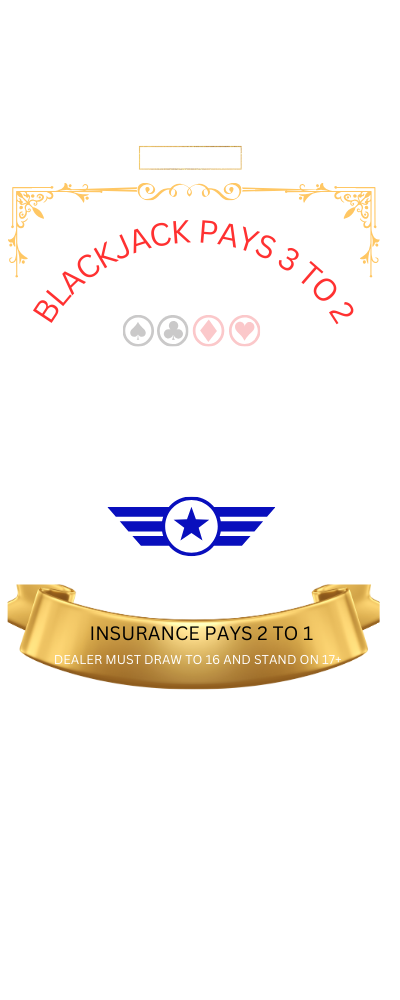
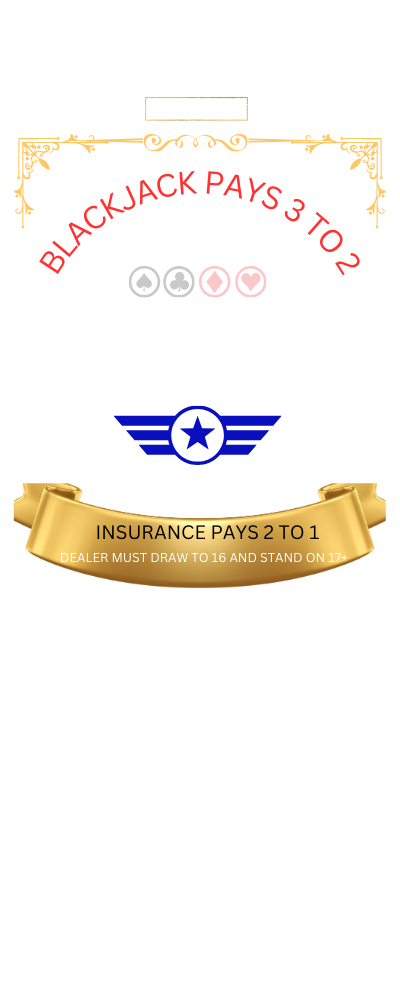
mobs layout done

Changed region(s): [[0.0, 0.465, 0.99, 0.713], [0.03, 0.093, 0.96, 0.341], [0.3, 0.403, 0.69, 0.465]]

diff --git a/style.css b/style.css
@@ -111,6 +111,7 @@ button.stay {
         background-image: url("./images/blackjack-board-mobs.png");
         background-repeat: no-repeat;
         background-size: 100%;
+
     
     }
 
@@ -118,25 +119,59 @@ button.stay {
         display: flex;
         justify-content: start;
         gap: 10px;
-        padding-left: 10rem;
+        padding-left: 2rem;
         padding-top: 8rem;
        
        
     }
 
     .computer-cards img {
-        width: 10rem; 
+        width: 3rem; 
         height: auto;
-        padding-top: 0;
+        padding-top: 14rem;
        
     }
     
 
     .player-cards {
-    
         display: flex;
+        justify-content: start;
         gap: 10px;
+        padding-left: 2rem;
+  padding-top: 14rem;
    
+}
+
+.player-cards img {
+    width: 3rem;
+    height: auto;
+
    
+}
+
+
+button.hit, button.stay {
+    background-color: red;
+    width:100px;
+    height: 50px;
+    font-size: 28px;
+    border-radius: 5%;
+    border: solid;
+    border-color: red;
+    color: white;
+}
+
+button.hit {
+    position: absolute;
+    bottom: 2rem;
+    left: 2rem;
+    background-color: black;
+    border-color: black;
+}
+
+button.stay {
+    position: absolute;
+    bottom: 2rem;
+    right: 2rem;
 }
 }
